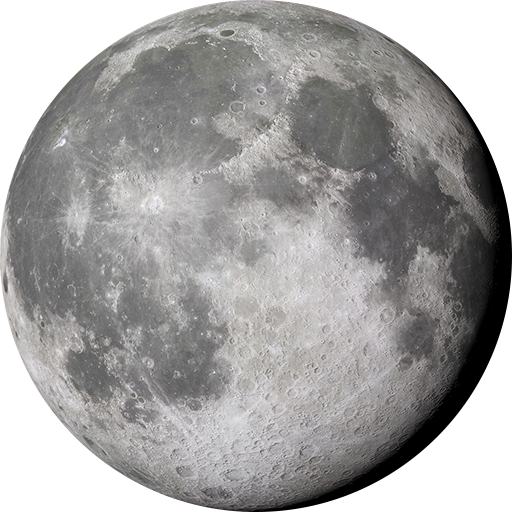
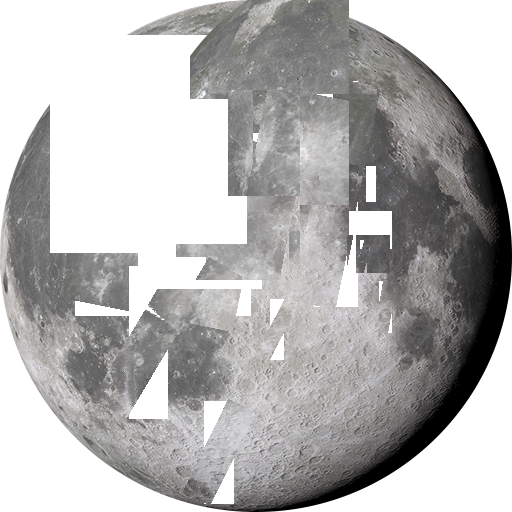
Only Translate

Changed region(s): [[0.0938, 0.0, 0.7812, 0.8438], [0.3438, 0.7812, 0.5, 1.0], [0.5, 0.6562, 0.5625, 0.7188]]

diff --git a/SDLProj/src/sim/Planet.cpp b/SDLProj/src/sim/Planet.cpp
@@ -1,30 +1,37 @@
 #include <SDL_image.h>
 #include "Planet.h"
 #include "..\gfx\SDL_Extension.h"
+
+
 Planet::Planet(SDL_Renderer*renderer,const Vec2& pos)
 	:Object(renderer,pos)
 {
+	SetTexture("moon.png");
 }
 
 Planet::Planet(SDL_Renderer*renderer,const Vec2& pos,double mass)
 	:Object(renderer,pos,Vec2(0,0),mass)
 {
-	
+	SetTexture("moon.png");
 }
 
 Planet::Planet(SDL_Renderer*renderer,const Vec2& pos, double mass,double radius)
 	:Object(renderer,pos,Vec2(0,0),mass,radius)
 {
-	SetTexture("earth.png");
+	SetTexture("moon.png");
+	this->dRect.w = radius * 2;
+	this->dRect.h = radius * 2;
 }
 
 void Planet::Update() {
 	Object::Update();
+	this->dRect.x = this->pos.GetX() + fTrans.GetX();
+	this->dRect.y = this->pos.GetY() + fTrans.GetY();
 }
 
 void Planet::Render() {
-	SDL_Rect rect =  { 522,500,200,200 };
-	SDL_RenderCopy(renderer, earth, nullptr,&rect );
+
+	SDL_RenderCopy(renderer, earth, nullptr,&dRect );
 	//SDL_SetRenderDrawColor(this->renderer, 10, 100, 255, 255);
 	//SDL_RenderFillCircle(this->renderer, this->pos.GetX(), this->pos.GetY(), this->radius);
 }
@@ -34,4 +41,14 @@ void Planet::SetTexture(const char* file) {
  	earth = SDL_CreateTextureFromSurface(this->renderer, surface);
 	SDL_FreeSurface(surface);
 
+}
+
+void Planet::Translate(const Vec2& dLoc) {
+	this->fTrans += dLoc;
+}
+
+void Planet::Interact(const Object& obj) {
+	Object::Interact(obj);
+
+	//NFT
 }

diff --git a/SDLProj/src/sim/Ship.cpp b/SDLProj/src/sim/Ship.cpp
@@ -28,8 +28,8 @@
 void Ship::Update() {
 	Object::Update();
 
-	this->dRect.x = this->fScal * (this->pos.GetX() - fScalCenter.GetX()) + fScalCenter.GetX() + fTrans.GetX();
-	this->dRect.y =  (fScal * (this->pos.GetY() - fScalCenter.GetY()) + fScalCenter.GetY() + fTrans.GetY());
+	this->dRect.x = this->pos.GetX()  + fTrans.GetX();
+	this->dRect.y =  this->pos.GetY() + fTrans.GetY();
 
 	dRect.w = 57 * fScal;
 	dRect.h = 43 * fScal;
@@ -70,13 +70,9 @@ void Ship::PostProcessing() {
 
 void Ship::Translate(const Vec2& dLoc) {
 	this->fTrans += dLoc;
-	fScalCenter +=  dLoc * fScal;
 }
 
 void Ship::Scal(double s, const Vec2& center) {
-	fScal *= s;
-	this->fScalCenter = center;
-	fScalCenter /= fScal;
 }
 
 void Ship::Rotate(double t, const Vec2& pivot) {

diff --git a/SDLProj/src/game/Game.cpp b/SDLProj/src/game/Game.cpp
@@ -100,8 +100,6 @@ void Game::Init(const char* title, int top, int left, int width, int height) {
 
 void Game::Update() {
 	//LOG("Update");
-	earth.Interact(ship);
-	ship.Interact(earth);
 
 	ship.Update();
 	earth.Update();
@@ -235,6 +233,7 @@ void Game::HandleEvents() {
 			switch (state.GetMouseState()) {
 			case State::MOUSE_LEFT_DOWN:
 				ship.Translate(Vec2(event.motion.xrel, event.motion.yrel));
+				earth.Translate(Vec2(event.motion.xrel, event.motion.yrel));
 				break;
 			default:
 				break;
@@ -269,4 +268,9 @@ void Game::PostProcessing() {
 	default:
 		break;
 	}
+}
+
+void Game::Interact() {
+	earth.Interact(ship);
+	ship.Interact(earth);
 }

diff --git a/SDLProj/src/sim/Planet.h b/SDLProj/src/sim/Planet.h
@@ -6,6 +6,7 @@ class Planet : public Object{
 
 private:
 	SDL_Texture* earth;
+	SDL_Rect dRect;
 public:
 	Planet() = default;
 	Planet(SDL_Renderer*rernderer,const Vec2& pos);
@@ -13,8 +14,11 @@ public:
 	Planet(SDL_Renderer*rernderer,const Vec2& pos, double mass, double radius);
 
 public:
-	void Update()override;
-	void Render()override;
+	virtual void Update()override;
+	virtual void Render()override;
+	virtual void Interact(const Object& obj);
 	void SetTexture(const char* file);
+
+	virtual void Translate(const Vec2& dLoc);
 	
 };

diff --git a/SDLProj/src/game/Game.h b/SDLProj/src/game/Game.h
@@ -35,6 +35,7 @@ public:
 	void Go();
 	void Init(const char* title,int top,int left, int width,int height);
 	void Update();
+	void Interact();
 	void Render();
 	void Clean();
 	void HandleEvents();
